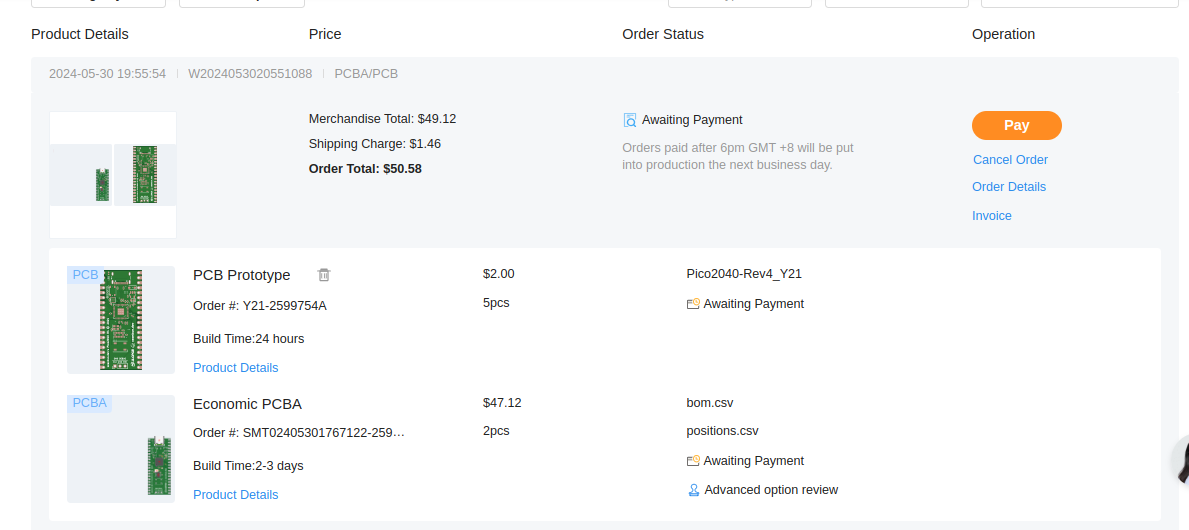
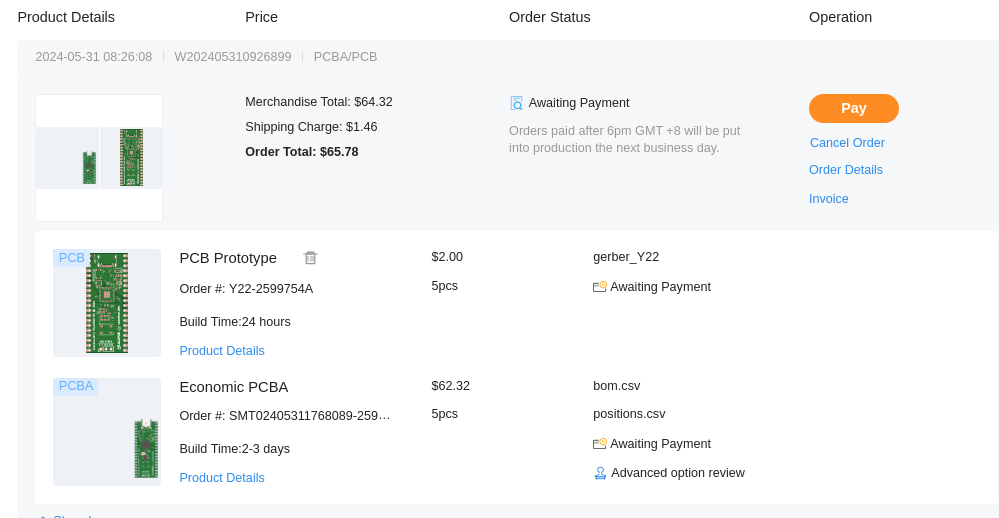
Update data

diff --git a/projects/Pico2040-Rev4/README.md b/projects/Pico2040-Rev4/README.md
@@ -13,16 +13,17 @@ A simple RP2040 devboard with additional features such as an accelerometer and a
 |-----------------------|--------|
 | PCB                   | $2     |
 | PCBA setup fee        | $8     |
-| Components            | $10.19 |
+| PCBA stencil          | $1.50  |
+| Components            | $24.52 |
 | Extended components   | $22.97 |
-| SMT assembly          | $0.66  |
+| SMT assembly          | $1.30  |
 | Hand soldering labor  | $3.50  |
-| Manual Assembly       | $0.24  |
-| Special components    | $0.06  |
-| Shipment to East Java, Indonesia (via Pos Indonesia) | $1.46  |
-| Total                 | $49.08 |
-
-but JLCPCB said total is $50!
+| Manual Assembly       | $0.38  |
+| Special components    | $0.15  |
+| Board cleaning        | $1.57  |
+| Order total           | $64.32 |
+| Shipment to East Java | $1.46  |
+| Total                 | $65.78 |
 
 # Design
 At first, designing with RP2040  sound easy, but the accelerometer is finnicky to wire. A lot of crossing ratsnets, even for I2C.
